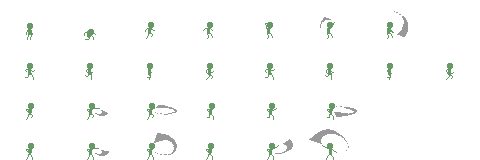
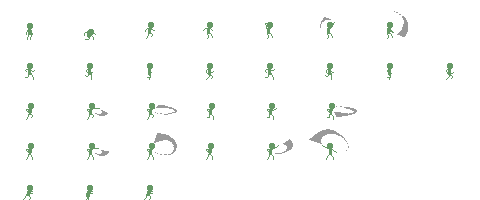
added area2 with updated tile sheet and player pushing animation

diff --git a/lib/game/levels/area2.js b/lib/game/levels/area2.js
@@ -1,0 +1,6 @@
+ig.module( 'game.levels.area2' )
+.requires( 'impact.image','game.entities.snail-guard','game.entities.player' )
+.defines(function(){
+LevelArea2=/*JSON[*/{"entities":[{"type":"EntitySnailGuard","x":276,"y":142},{"type":"EntityPlayer","x":244,"y":114}],"layer":[{"name":"level","width":50,"height":20,"linkWithCollision":false,"visible":1,"tilesetName":"media/tiles-10-2.png","repeat":false,"preRender":false,"distance":"1","tilesize":10,"foreground":false,"data":[[0,0,0,0,0,0,0,0,0,0,0,0,0,0,0,0,0,0,0,0,0,0,0,0,0,0,0,0,0,0,0,0,0,0,0,0,0,0,0,0,0,0,0,0,0,0,0,0,0,0],[0,0,0,0,0,0,0,0,0,0,0,0,0,0,0,0,0,0,0,0,0,0,0,0,0,0,0,0,0,0,0,0,0,0,0,0,0,0,0,0,0,0,0,0,0,0,0,0,0,0],[0,0,0,0,0,0,0,0,0,0,0,0,0,0,0,0,0,0,0,0,0,0,0,0,0,0,0,0,0,0,0,0,0,0,0,0,0,0,0,0,0,0,0,0,0,0,0,0,0,0],[0,0,0,0,0,0,0,0,0,0,0,0,0,0,0,0,0,0,0,0,0,0,0,0,0,0,0,0,0,0,0,0,0,0,0,0,0,0,0,0,0,0,0,0,0,0,0,0,0,0],[0,0,0,0,0,0,0,0,0,0,0,0,0,0,0,0,0,0,0,0,0,0,0,0,0,0,0,0,0,0,0,0,0,0,0,0,0,0,0,0,0,0,0,0,0,0,0,0,0,0],[0,0,0,0,0,0,0,0,0,0,0,0,0,1,1,1,1,1,1,0,0,0,0,0,0,0,0,0,0,0,0,0,0,0,0,0,0,0,0,0,0,0,0,0,0,0,0,0,0,0],[0,0,0,0,0,0,0,0,0,0,0,0,0,11,12,11,12,11,12,0,0,0,0,0,0,0,0,0,0,0,0,0,0,0,0,0,0,0,0,0,0,0,0,0,0,0,0,0,0,0],[0,0,0,0,0,0,0,0,0,0,0,0,0,31,22,21,22,21,22,0,0,0,0,1,1,1,1,0,0,0,0,0,0,0,0,0,0,0,0,0,0,0,0,0,0,0,0,0,0,0],[0,0,0,0,1,1,1,1,0,0,0,0,0,21,32,31,22,21,31,0,0,0,0,11,12,11,12,0,0,0,0,0,0,0,0,0,0,0,0,5,6,5,6,0,0,0,0,0,0,0],[0,0,0,0,11,12,11,12,0,0,0,0,0,21,22,21,32,21,22,0,0,0,0,21,22,31,22,0,0,0,0,0,0,0,0,0,0,0,0,15,16,15,16,0,0,0,0,0,0,0],[0,0,0,0,31,32,21,22,0,0,0,0,0,21,31,21,22,21,22,0,0,0,0,21,31,32,22,0,0,0,1,1,1,1,1,1,1,1,0,25,26,25,5,6,5,6,0,0,0,0],[0,0,0,0,21,22,21,22,0,0,0,0,0,21,22,14,22,21,32,0,0,0,0,21,13,14,22,0,0,0,12,11,12,11,12,11,12,11,0,26,25,26,15,16,15,16,0,0,0,0],[0,0,0,0,21,22,21,22,0,0,0,0,0,21,22,13,14,35,36,1,1,1,1,35,36,13,22,0,0,0,31,32,21,22,21,22,21,22,0,35,25,36,35,26,35,36,0,0,0,0],[0,0,0,0,21,31,21,22,0,0,0,0,0,21,13,24,33,11,12,11,12,11,12,11,12,33,24,0,0,0,21,22,21,22,21,22,31,22,0,0,35,5,6,36,0,0,0,0,0,0],[0,0,0,0,21,32,21,22,0,0,0,0,0,31,22,23,1,21,22,21,32,31,22,21,22,1,23,0,0,0,21,22,31,22,21,31,32,31,0,0,0,15,16,0,0,0,0,0,0,0],[0,0,0,0,21,22,21,31,0,9,0,0,0,21,24,34,1,21,32,21,22,21,22,31,22,1,34,0,0,0,21,22,21,22,21,22,21,22,0,0,0,35,36,0,0,0,0,0,0,0],[6,3,5,3,4,3,4,6,5,3,6,3,5,3,6,3,4,3,4,6,5,3,4,3,4,5,4,3,4,5,4,3,4,3,4,3,4,3,5,3,4,3,5,6,4,3,6,3,4,3],[15,16,15,16,15,2,15,16,15,16,15,16,15,35,36,16,15,2,15,16,15,16,15,2,15,16,15,16,15,16,15,16,15,16,15,16,15,2,15,16,2,16,15,16,15,16,15,16,15,16],[35,36,25,26,25,26,35,36,25,26,25,26,25,0,0,35,25,26,35,36,25,26,25,26,25,26,25,26,25,35,36,26,25,26,25,26,25,26,25,26,25,26,25,26,25,26,25,26,35,36],[0,0,0,36,35,36,0,0,35,36,35,36,35,0,0,0,35,36,0,0,35,36,35,36,35,36,35,36,0,0,0,35,36,35,36,35,36,35,36,35,36,35,36,35,36,35,0,35,0,0]]},{"name":"collision","width":50,"height":20,"linkWithCollision":false,"visible":0,"tilesetName":"","repeat":false,"preRender":false,"distance":1,"tilesize":10,"foreground":false,"data":[[0,0,0,0,0,0,0,0,0,0,0,0,0,0,0,0,0,0,0,0,0,0,0,0,0,0,0,0,0,0,0,0,0,0,0,0,0,0,0,0,0,0,0,0,0,0,0,0,0,0],[0,0,0,0,0,0,0,0,0,0,0,0,0,0,0,0,0,0,0,0,0,0,0,0,0,0,0,0,0,0,0,0,0,0,0,0,0,0,0,0,0,0,0,0,0,0,0,0,0,0],[0,0,0,0,0,0,0,0,0,0,0,0,0,0,0,0,0,0,0,0,0,0,0,0,0,0,0,0,0,0,0,0,0,0,0,0,0,0,0,0,0,0,0,0,0,0,0,0,0,0],[0,0,0,0,0,0,0,0,0,0,0,0,0,0,0,0,0,0,0,0,0,0,0,0,0,0,0,0,0,0,0,0,0,0,0,0,0,0,0,0,0,0,0,0,0,0,0,0,0,0],[0,0,0,0,0,0,0,0,0,0,0,0,0,0,0,0,0,0,0,0,0,0,0,0,0,0,0,0,0,0,0,0,0,0,0,0,0,0,0,0,0,0,0,0,0,0,0,0,0,0],[0,0,0,0,0,0,0,0,0,0,0,0,0,0,0,0,0,0,0,0,0,0,0,0,0,0,0,0,0,0,0,0,0,0,0,0,0,0,0,0,0,0,0,0,0,0,0,0,0,0],[0,0,0,0,0,0,0,0,0,0,0,0,0,12,12,12,12,12,12,0,0,0,0,0,0,0,0,0,0,0,0,0,0,0,0,0,0,0,0,0,0,0,0,0,0,0,0,0,0,0],[0,0,0,0,0,0,0,0,0,0,0,0,0,0,0,0,0,0,0,0,0,0,0,0,0,0,0,0,0,0,0,0,0,0,0,0,0,0,0,0,0,0,0,0,0,0,0,0,0,0],[0,0,0,0,0,0,0,0,0,0,0,0,0,0,0,0,0,0,0,0,0,0,0,12,12,12,12,0,0,0,0,0,0,0,0,0,0,0,0,12,12,12,12,0,0,0,0,0,0,0],[0,0,0,0,12,12,12,12,0,0,0,0,0,0,0,0,0,0,0,0,0,0,0,0,0,0,0,0,0,0,0,0,0,0,0,0,0,0,0,0,0,0,0,0,0,0,0,0,0,0],[0,0,0,0,0,0,0,0,0,0,0,0,0,0,0,0,0,0,0,0,0,0,0,0,0,0,0,0,0,0,0,0,0,0,0,0,0,0,0,0,0,0,12,12,12,12,0,0,0,0],[0,0,0,0,0,0,0,0,0,0,0,0,0,0,0,0,0,0,0,0,0,0,0,0,0,0,0,0,0,0,12,12,12,12,12,12,12,12,0,0,0,0,0,0,0,0,0,0,0,0],[0,0,0,0,0,0,0,0,0,0,0,0,0,0,0,0,0,0,0,0,0,0,0,0,0,0,0,0,0,0,0,0,0,0,0,0,0,0,0,0,0,0,0,0,0,0,0,0,0,0],[0,0,0,0,0,0,0,0,0,0,0,0,0,0,0,0,0,12,12,12,12,12,12,12,12,0,0,0,0,0,0,0,0,0,0,0,0,0,0,0,0,12,12,0,0,0,0,0,0,0],[0,0,0,0,0,0,0,0,0,0,0,0,0,0,0,0,0,0,0,0,0,0,0,0,0,0,0,0,0,0,0,0,0,0,0,0,0,0,0,0,0,0,0,0,0,0,0,0,0,0],[0,0,0,0,0,0,0,0,0,0,0,0,0,0,0,0,0,0,0,0,0,0,0,0,0,0,0,0,0,0,0,0,0,0,0,0,0,0,0,0,0,0,0,0,0,0,0,0,0,0],[1,1,1,1,1,1,1,1,1,1,1,1,1,1,1,1,1,1,1,1,1,1,1,1,1,1,1,1,1,1,1,1,1,1,1,1,1,1,1,1,1,1,1,1,1,1,1,1,1,1],[0,0,0,0,0,0,0,0,0,0,0,0,0,0,0,0,0,0,0,0,0,0,0,0,0,0,0,0,0,0,0,0,0,0,0,0,0,0,0,0,0,0,0,0,0,0,0,0,0,0],[0,0,0,0,0,0,0,0,0,0,0,0,0,0,0,0,0,0,0,0,0,0,0,0,0,0,0,0,0,0,0,0,0,0,0,0,0,0,0,0,0,0,0,0,0,0,0,0,0,0],[0,0,0,0,0,0,0,0,0,0,0,0,0,0,0,0,0,0,0,0,0,0,0,0,0,0,0,0,0,0,0,0,0,0,0,0,0,0,0,0,0,0,0,0,0,0,0,0,0,0]]}]}/*]JSON*/;
+LevelArea2Resources=[new ig.Image('media/tiles-10-2.png')];
+});

diff --git a/lib/game/entities/player.js b/lib/game/entities/player.js
@@ -40,14 +40,14 @@ ig.module(
         collides: ig.Entity.COLLIDES.PASSIVE,
         
         init: function( x, y, settings ) {
-            this.parent( x, ( y - this.size.y ), settings );
+            this.parent( x, y, settings );
             
             // add the animations
             this.addAnim( 'idle', 1, [0], true );
             this.addAnim( 'crouch', 1, [1], true );
             this.addAnim( 'walk', 0.15, [10, 11, 12, 13, 14, 15, 8, 9] );
             this.addAnim( 'jump', 1, [2], true );
-            this.addAnim( 'push', 1, [2], true );
+            this.addAnim( 'push', 0.5, [32, 33, 34, 33] );
             this.addAnim( 'fall', 1, [2], true );
             this.addAnim( 'hurt', 0.3, [3], true );
             this.addAnim( 'dead', 0.5, [0], true );
@@ -471,11 +471,6 @@ ig.module(
                     this.currentAnim = this.anims.crouch.rewind();
                 }
             }
-            else if ( this.pushing ) {
-                if ( this.currentAnim != this.anims.push ) {
-                    this.currentAnim = this.anims.push.rewind();
-                }
-            }
             else if ( this.attacking ) {
                 if ( this.attack_up ) {
                     if ( this.currentAnim != this.anims.attackUp ) {
@@ -511,6 +506,11 @@ ig.module(
             else if ( this.jumping || this.falling ) {
                 if ( this.currentAnim != this.anims.jump ) {
                     this.currentAnim = this.anims.jump.rewind();
+                }
+            }
+            else if ( this.pushing ) {
+                if ( this.currentAnim != this.anims.push ) {
+                    this.currentAnim = this.anims.push.rewind();
                 }
             }
             else if ( this.walking ) {
@@ -609,7 +609,7 @@ ig.module(
                 return;
             }
             
-            /** /
+            /**/
             // reduce health
             //this.health -= amount;
             

diff --git a/lib/game/entities/snail-guard.js b/lib/game/entities/snail-guard.js
@@ -42,7 +42,7 @@ ig.module(
         //collides: ig.Entity.COLLIDES.FIXED,
         
         init: function( x, y, settings ) {
-            this.parent( x, ( y - this.size.y ), settings );
+            this.parent( x, y, settings );
             
             // add the animations
             this.addAnim( 'idle', 1, [0], true );
@@ -429,7 +429,7 @@ ig.module(
             // if hiding and colliding with the player on the x-axis
             if ( this.hiding ) {
                 if ( other instanceof EntityPlayer ) {
-                    if ( axis == 'x' ) {
+                    if ( other.standing && axis == 'x' ) {
                         
                         /*
                         var mx = ( 5 * ig.system.tick );

diff --git a/lib/game/main.js b/lib/game/main.js
@@ -7,7 +7,8 @@ ig.module(
 	'impact.font',
     'plugins.simple-camera',
     'game.entities.player',
-    'game.levels.area1'
+    //'game.levels.area1'
+    'game.levels.area2'
 )
 .defines(function(){
     
@@ -36,7 +37,8 @@ ig.module(
             ig.input.bind( ig.KEY.C, 'invincible' );
             ig.input.bind( ig.KEY.P, 'pause' );
             
-            this.loadLevel( LevelArea1 );
+            //this.loadLevel( LevelArea1 );
+            this.loadLevel( LevelArea2 );
             
             // show collision boxes
             ig.Entity._debugShowBoxes = true;
